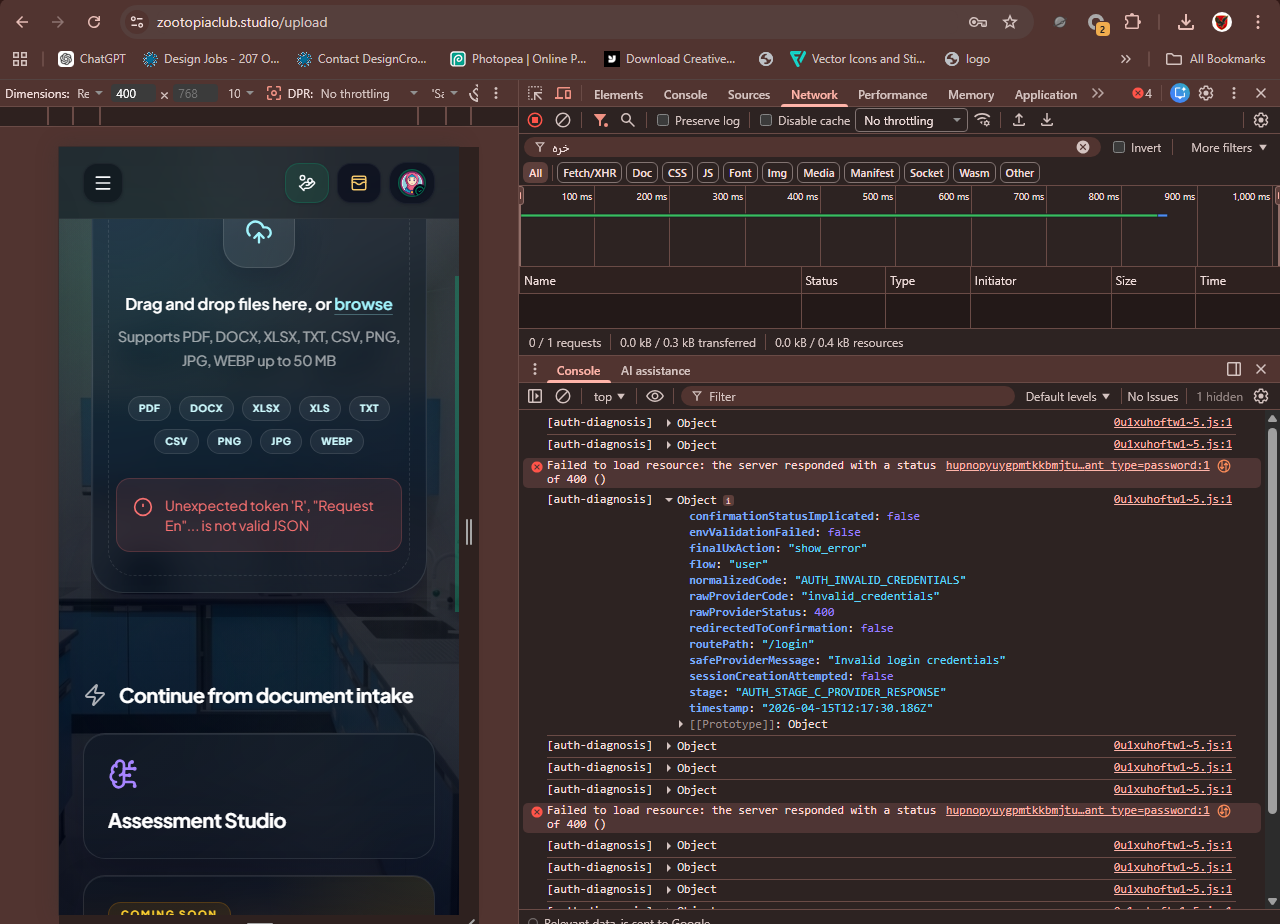
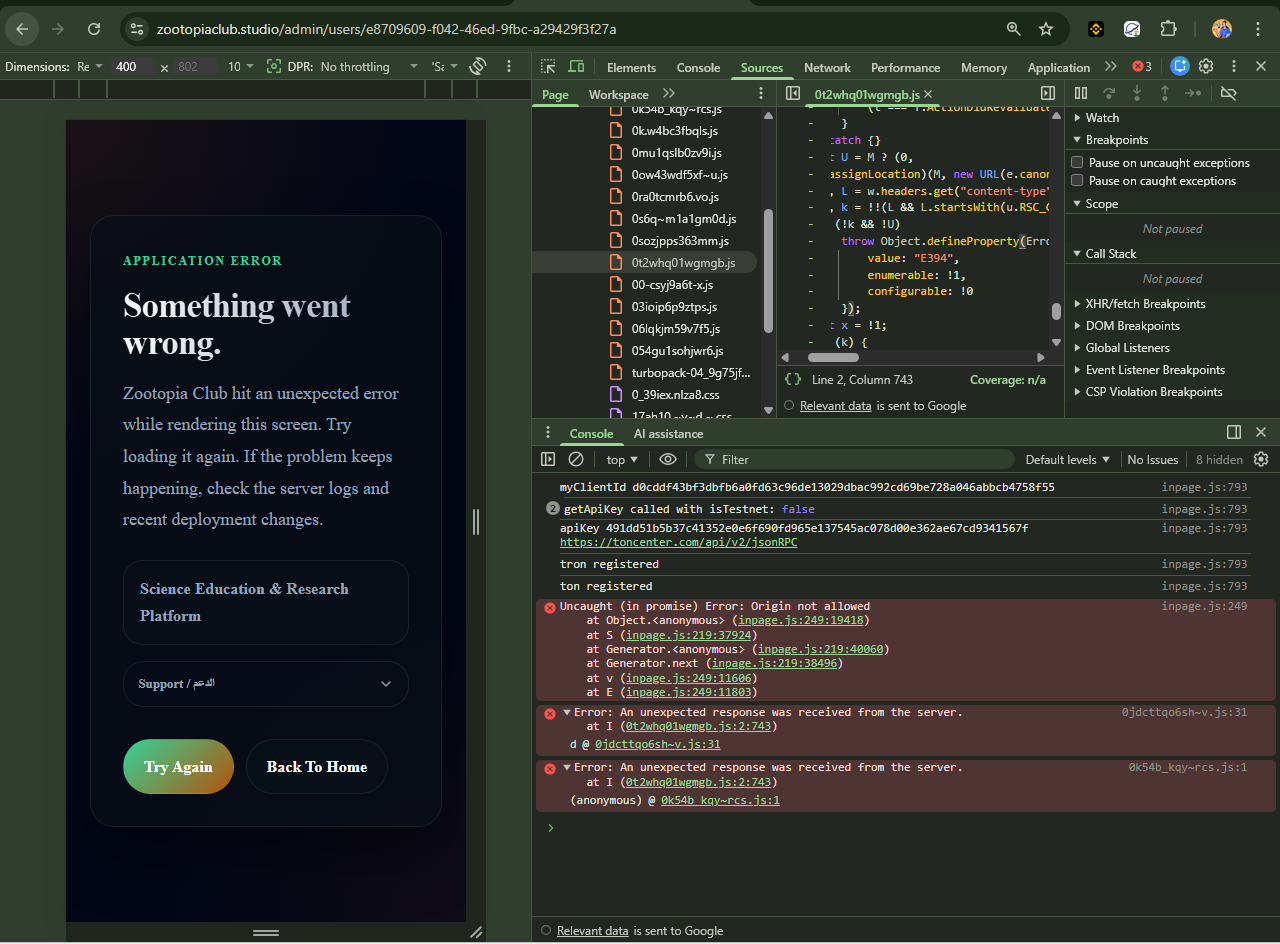
Initial commit53

diff --git a/apps/web/next.config.ts b/apps/web/next.config.ts
@@ -8,6 +8,51 @@ const nextAppRoot = dirname(fileURLToPath(import.meta.url));
 const workspaceRoot = resolve(nextAppRoot, "../..");
 const buildCpuCount = Math.max(1, cpus().length);
 
+function parseServerActionOriginHost(rawValue: string | undefined) {
+  const normalizedValue = rawValue?.trim();
+  if (!normalizedValue) {
+    return null;
+  }
+
+  const candidate = /^[a-zA-Z][a-zA-Z\d+\-.]*:\/\//.test(normalizedValue)
+    ? normalizedValue
+    : `https://${normalizedValue}`;
+
+  try {
+    return new URL(candidate).host.toLowerCase();
+  } catch {
+    return null;
+  }
+}
+
+function collectServerActionAllowedOrigins() {
+  const allowedHosts = new Set<string>([
+    "localhost",
+    "127.0.0.1",
+    "localhost:3000",
+    "127.0.0.1:3000",
+    "localhost:3020",
+    "127.0.0.1:3020",
+    "localhost:3025",
+    "127.0.0.1:3025",
+  ]);
+
+  const envCandidates = [
+    process.env.NEXT_PUBLIC_BASE_URL,
+    process.env.NEXTAUTH_URL,
+    process.env.VERCEL_URL,
+  ];
+
+  for (const envCandidate of envCandidates) {
+    const parsedHost = parseServerActionOriginHost(envCandidate);
+    if (parsedHost) {
+      allowedHosts.add(parsedHost);
+    }
+  }
+
+  return [...allowedHosts];
+}
+
 // Keep the monorepo root .env.local as the canonical env source for both
 // workspace scripts and the live Next.js app under apps/web.
 loadEnvConfig(workspaceRoot, process.env.NODE_ENV !== "production", console, true);
@@ -37,6 +82,12 @@ const nextConfig: NextConfig = {
     // Keep build parallelism explicit on high-core servers.
     cpus: buildCpuCount,
     workerThreads: true,
+    /* Server Actions reject POSTs when Origin and Host do not match. This app can be
+       reached through canonical env domains and localhost/127.0.0.1 variants during
+       local QA and proxy paths, so keep this allowlist explicit and server-derived. */
+    serverActions: {
+      allowedOrigins: collectServerActionAllowedOrigins(),
+    },
   },
   turbopack: {
     root: workspaceRoot,

diff --git a/apps/web/app/(protected)/admin/users/[uid]/page.tsx b/apps/web/app/(protected)/admin/users/[uid]/page.tsx
@@ -455,7 +455,20 @@ async function runAdminCreditMutationFromDetailPage(input: {
   const { requireAdminUser } = await import("@/lib/server/session");
 
   const admin = await requireAdminUser();
-  const targetUser = await getUserByUid(input.targetUid);
+  let targetUser: Awaited<ReturnType<typeof getUserByUid>> = null;
+  /* Credit mutations must never crash the admin route on transient lookup failures.
+     Keep this pre-mutation owner read fail-closed and redirect-based so operators get
+     an explicit error state instead of the global application error boundary. */
+  try {
+    targetUser = await getUserByUid(input.targetUid);
+  } catch {
+    redirect(
+      buildAdminUserDetailPath(input.targetUid, {
+        error: "credits_update_failed",
+      }),
+    );
+  }
+
   if (!targetUser) {
     redirect(
       buildAdminUserDetailPath(input.targetUid, {
